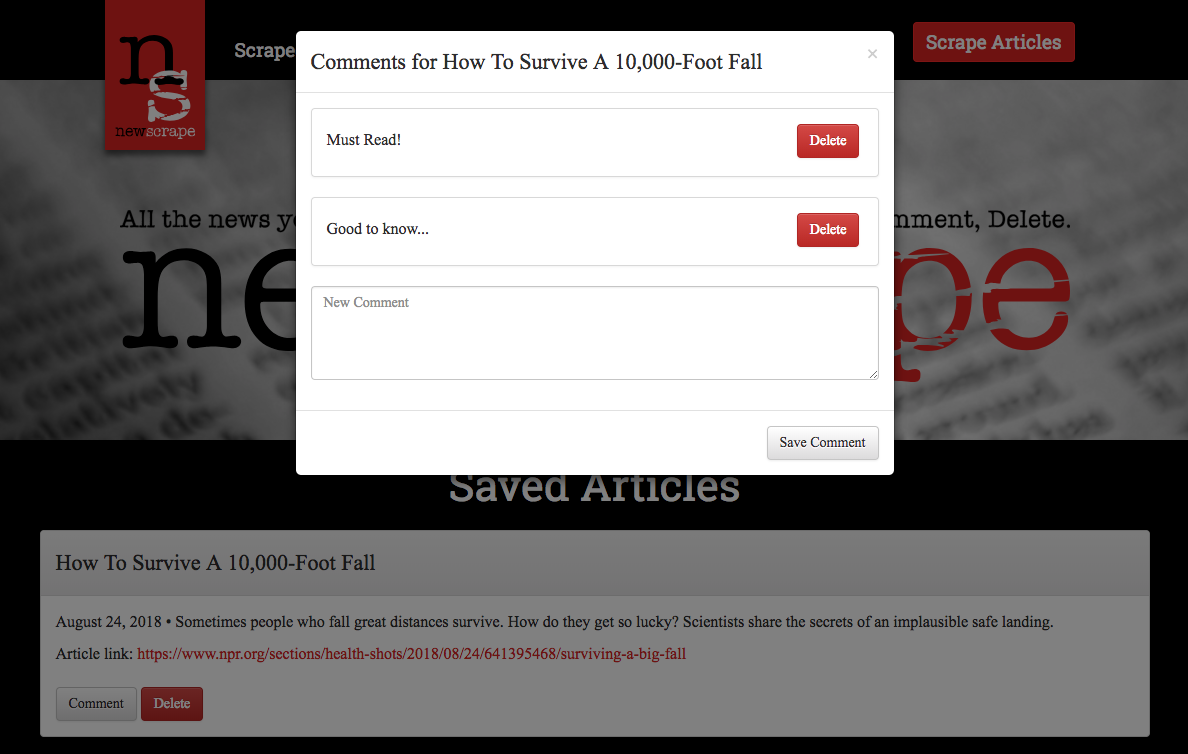
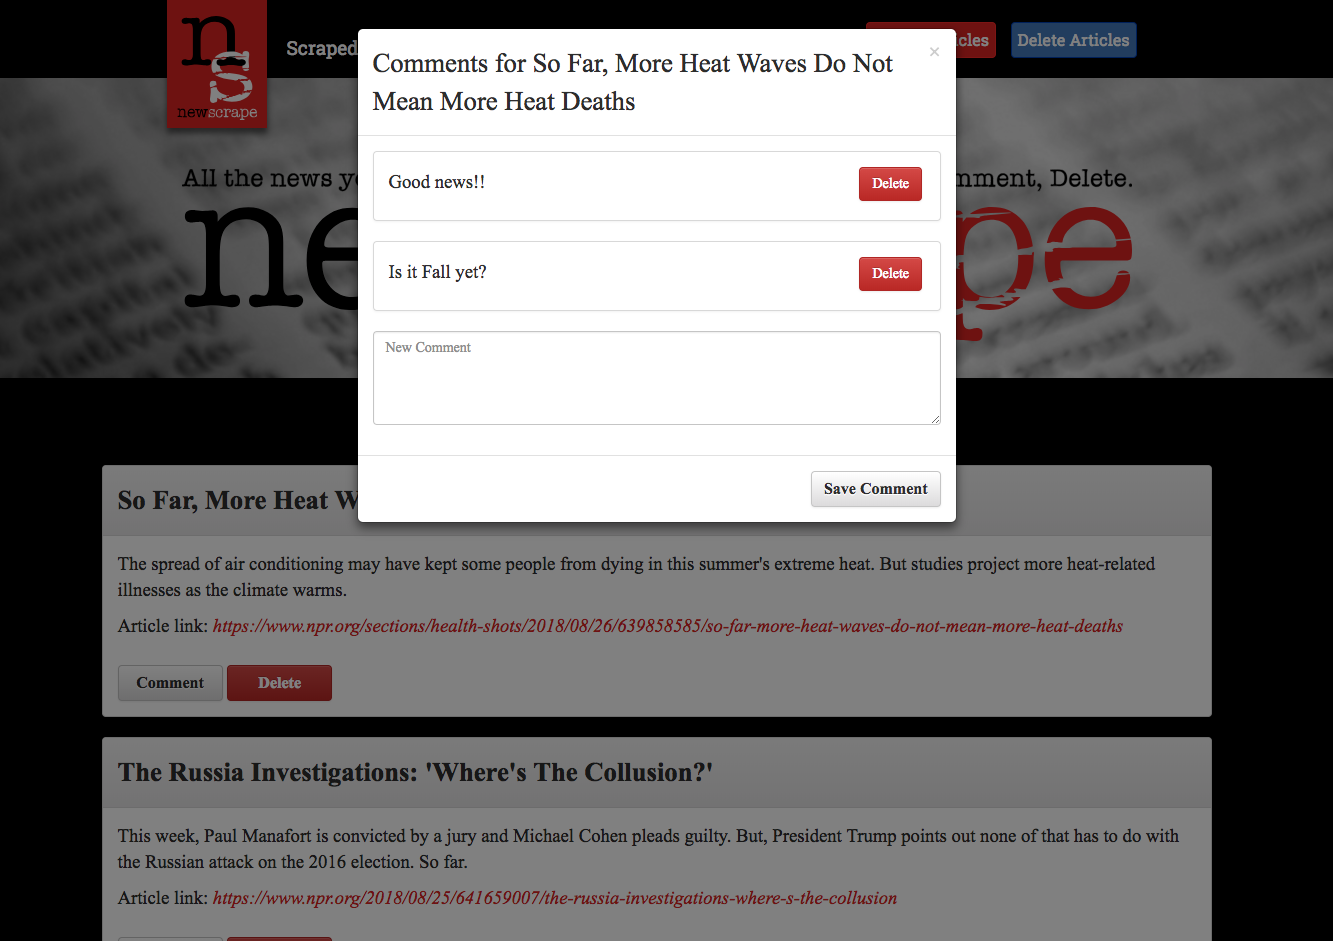
Added delete articles button

diff --git a/public/assets/css/style.css b/public/assets/css/style.css
@@ -22,6 +22,10 @@ h4 {
     color: #e02826;
 }
 
+#centered {
+    text-align: center;
+}
+
 .home {
     text-align: center;
     color: white;
@@ -30,12 +34,12 @@ h4 {
 
 .spacer {
     width: 100%;
-    height: 40px;
+    height: 20px;
 }
 
 #nprLogo {
-    margin-top: 8%;
-    margin-bottom: 20px;
+    margin-top: 45px;
+    margin-bottom: 5px;
 }
 
 .homeColumn1 {
@@ -51,33 +55,39 @@ h4 {
     text-align: center;
 }
 
-#scrape {
-    margin: 22px 0px;
-    font-size: 14pt;
+.scrape {
+    margin: 0px 10px 0px 10px;
+    padding: 6px;
+    font-size: 12pt;
     font-family: 'Roboto Slab', serif;
     color: white;
     background-color: #e02826;
     border: #fa302c solid 1px;
+    line-height: 1.42857143;
+    text-align: center;
+    vertical-align: middle;
+    cursor: pointer;
+    touch-action: manipulation;
+    border-radius: 4px;
+    box-shadow: 0px 3px 8px rgba(0, 0, 0, .5);
 }
 
-#scrape2 {
-    margin: 10px;
-    padding: 10px;
-    font-size: 16pt;
-    font-family: 'Roboto Slab', serif;
-    color: white;
-    background-color: #e02826;
-    border: #fa302c solid 1px;
-}
-
-#scrape3 {
-    margin: 20px;
-    padding: 10px;
+#scrapeBig {
     font-size: 18pt;
+    padding: 10px 20px 10px 20px;
+    margin: 0px;
+    box-shadow: 0px 3px 8px rgba(0, 0, 0, .5);
+}
+
+#empty {
+    margin: 0px;
+    padding: 6px;
+    font-size: 12pt;
     font-family: 'Roboto Slab', serif;
     color: white;
-    background-color: #e02826;
-    border: #fa302c solid 1px;
+    background-color: #4e84c4;
+    border: #0347bb solid 1px;
+    box-shadow: 0px 3px 8px rgba(0, 0, 0, .5);
 }
 
 #saveBtn {
@@ -103,29 +113,35 @@ h4 {
     font-weight: bold;
 }
 
-#scrape:hover {
+.scrape:hover {
     background-color: #961c1a;
 }
 
-#scrape2:hover {
-    background-color: #961c1a;
+#empty:hover {
+    background-color: #0347bb;
 }
 
-#scrape3:hover {
-    background-color: #961c1a;
+.pageHeader {
+    text-align: center;
+    margin-bottom: 15px;
+}
+
+.pageType {
+    color: white;
 }
 
 .pageTitle {
-    font-size: 32pt;
+    font-size: 30pt;
+    margin-bottom: 15px;
     color: white;
     text-align: center;
-    margin-bottom: 15px;
     font-family: 'Roboto Slab', serif;
 }
 
 .scrapingTitle {
     text-align: center;
-    font-size: 26pt;
+    font-size: 22pt;
+    margin: 10px 0px 20px 0px;
     line-height: 26pt;
     font-family: 'Roboto Slab', serif;
 }
@@ -141,8 +157,8 @@ h4 {
 
 .mainContainer {
     width: 100%;
-    height: 360px;
-    padding: 40px;
+    height: 300px;
+    padding: 0px 30px 0px 30px;
     background-image: url("/assets/img/newsprint.png");
     background-repeat: no-repeat;
     background-size: cover;
@@ -185,7 +201,6 @@ header {
 
 #leftMenu a{
     color: white;
-    margin-left: 10px;
     margin-right: 10px;
     padding-bottom: 8px;
 }
@@ -211,10 +226,10 @@ header {
 #headerTag {
     position: relative;
     float: left;
-    height: 150px;
+    height: 130px;
     width: 100px;
     background-color: #e02826;
-    padding: 35px 10px 10px 10px;
+    padding: 24px 13px 12px 13px;
     box-shadow: 0px 5px 8px rgba(0, 0, 0, .5);
 }
 
@@ -236,7 +251,7 @@ header {
     display: none;
 }
 
-@media only screen and (max-width: 650px) {
+@media only screen and (max-width: 750px) {
 #mainHidden {
     display: block;
     margin: auto;
@@ -244,14 +259,18 @@ header {
 }
 
 .homepageTitle {
-    font-size: 28pt;
+    font-size: 26pt;
     line-height: 28pt;
     margin-bottom: 10px;
 }
 
 .scrapingTitle {
-    font-size: 22pt;
+    font-size: 20pt;
     line-height: 22pt;
+}
+
+.spacer {
+    height: 20px;
 }
 
 .homeColumn1 {
@@ -269,16 +288,7 @@ header {
     margin-top: 0px;
 }
 
-#scrape {
-    float: none;
-}
-
-#scrape2 {
-    float: none;
-    margin: 10px 0px;
-}
-
-#scrape3 {
+.scrape {
     float: none;
     margin: 20px 0px;
 }
@@ -289,14 +299,14 @@ header {
 
 .mainContainer {
     line-height: 0;
-    height: 260px;
-    padding: 80px 10px 10px 10px;
+    height: auto;
+    padding: 60px 10px 10px 10px;
 }
 
 #headerTag {
     width: 75px;
-    height: 117px;
-    padding: 25px 5px 5px 5px;
+    height: 110px;
+    padding: 18px 5px 5px 5px;
 }
 
 #leftMenu {

diff --git a/server.js b/server.js
@@ -1,4 +1,4 @@
-console.log('inside server.js');
+console.log('running server.js');
 // Dependencies
 var express = require("express");
 var bodyParser = require("body-parser");
@@ -15,7 +15,7 @@ var request = require("request");
 var cheerio = require("cheerio");
 
 // If deployed, use the deployed database. Otherwise use the local mongoScraper database
-var MONGODB_URI = process.env.MONGODB_URI || "mongodb://localhost/nprScraper5";
+var MONGODB_URI = process.env.MONGODB_URI || "mongodb://localhost/nprScraper1";
 
 // Set mongoose to leverage built in JavaScript ES6 Promises
 // Connect to the Mongo DB
@@ -50,9 +50,6 @@ app.engine("handlebars", exphbs({
 }));
 app.set("view engine", "handlebars");
 
-
-
-
 // Show any mongoose errors
 db.on("error", function(error) {
   console.log("Mongoose Error: ", error);
@@ -86,6 +83,14 @@ app.get("/saved", function(req, res) {
       article: articles
     };
     res.render("saved", hbsObject);
+  });
+});
+
+// Clear the database to bring in an updated list
+app.get("/empty", (req, res) => {
+  db.collection('articles').deleteMany({ 'saved' : false }, function(err, obj) {
+    if (err) throw err;
+    res.send(obj.result.n + " articles removed.");
   });
 });
 

diff --git a/public/assets/js/app.js b/public/assets/js/app.js
@@ -1,5 +1,5 @@
 //Scrape buttons
-$("#scrape").on("click", function() {
+$(".scrape").on("click", function() {
     $.ajax({
         method: "GET",
         url: "/scrape"
@@ -9,20 +9,10 @@ $("#scrape").on("click", function() {
     })
 });
 
-$("#scrape2").on("click", function() {
+$("#empty").on("click", function() {
     $.ajax({
         method: "GET",
-        url: "/scrape"
-    }).done(function(data) {
-        console.log(data)
-        window.location = "/home"
-    })
-});
-
-$("#scrape3").on("click", function() {
-    $.ajax({
-        method: "GET",
-        url: "/scrape"
+        url: "/empty"
     }).done(function(data) {
         console.log(data)
         window.location = "/home"

diff --git a/README.md b/README.md
@@ -1,10 +1,10 @@
 # Newscrape || NPR News Scraper
 
-All the news you want, only when you want it. Newscrape will collect the latest news articles from the NPR (National Public Radio) News website, www.NPR.org, and display a Headline, Summary and Link for each article.
-            
-By clicking on the button below each article you can move that article to the Saved Articles page. From there you can comment on the article, delete comments, or delete the saved article from the saved article page.
+All the news you want, only when you want it. Newscrape will scrape to collect the latest news articles from the NPR (National Public Radio) News website, www.NPR.org, and display a Headline, Summary and Link for each article.
 
-NPR delivers breaking national and world news. Also top stories from business, politics, health, science, technology, music, arts and culture.
+Articles will be stored on the scraped articles page until you click the "Delete Articles" button. This will clear the scraped articles page to make room for new articles when you click the "Scrape Articles" button. Clicking the "Save Article" button below each article will move that article to the Saved Articles page.
+
+Saved articles will be saved even when you delete the Scraped Articles. The Saved Articles page will let you comment on the article, delete comments, or remove the saved article from the saved article page.
 
 ## Technologies Used
 
@@ -32,6 +32,10 @@ NPM Package Requirements
 ### Scraped Articles Page
 
 ![Mobile Size](/screenshots/scraped.png)
+
+### Deleted Articles View
+
+![Mobile Size](/screenshots/deleted.png)
 
 ### Saved Articles Page
 
